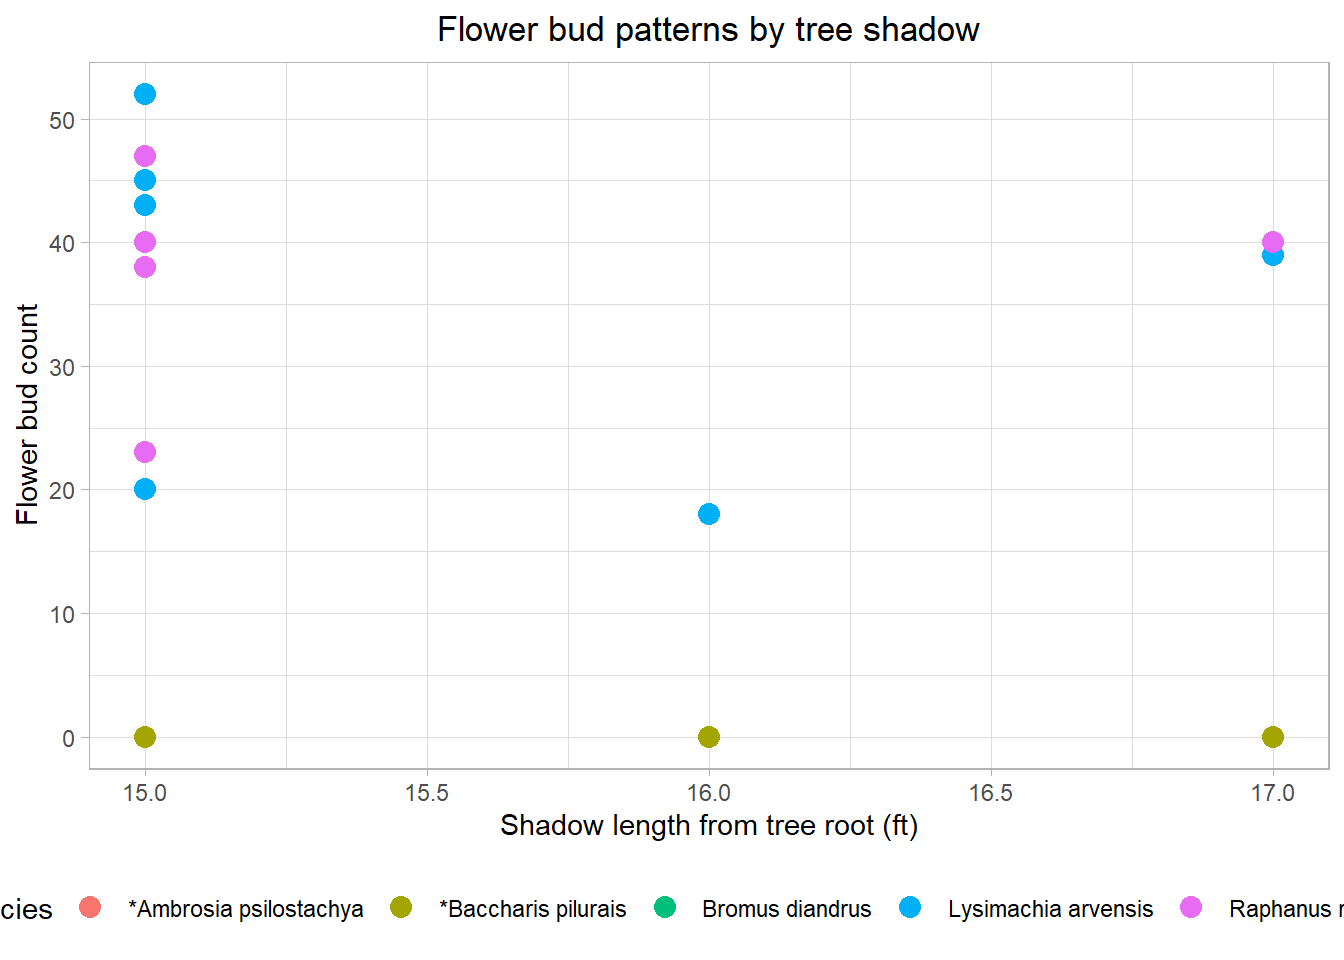
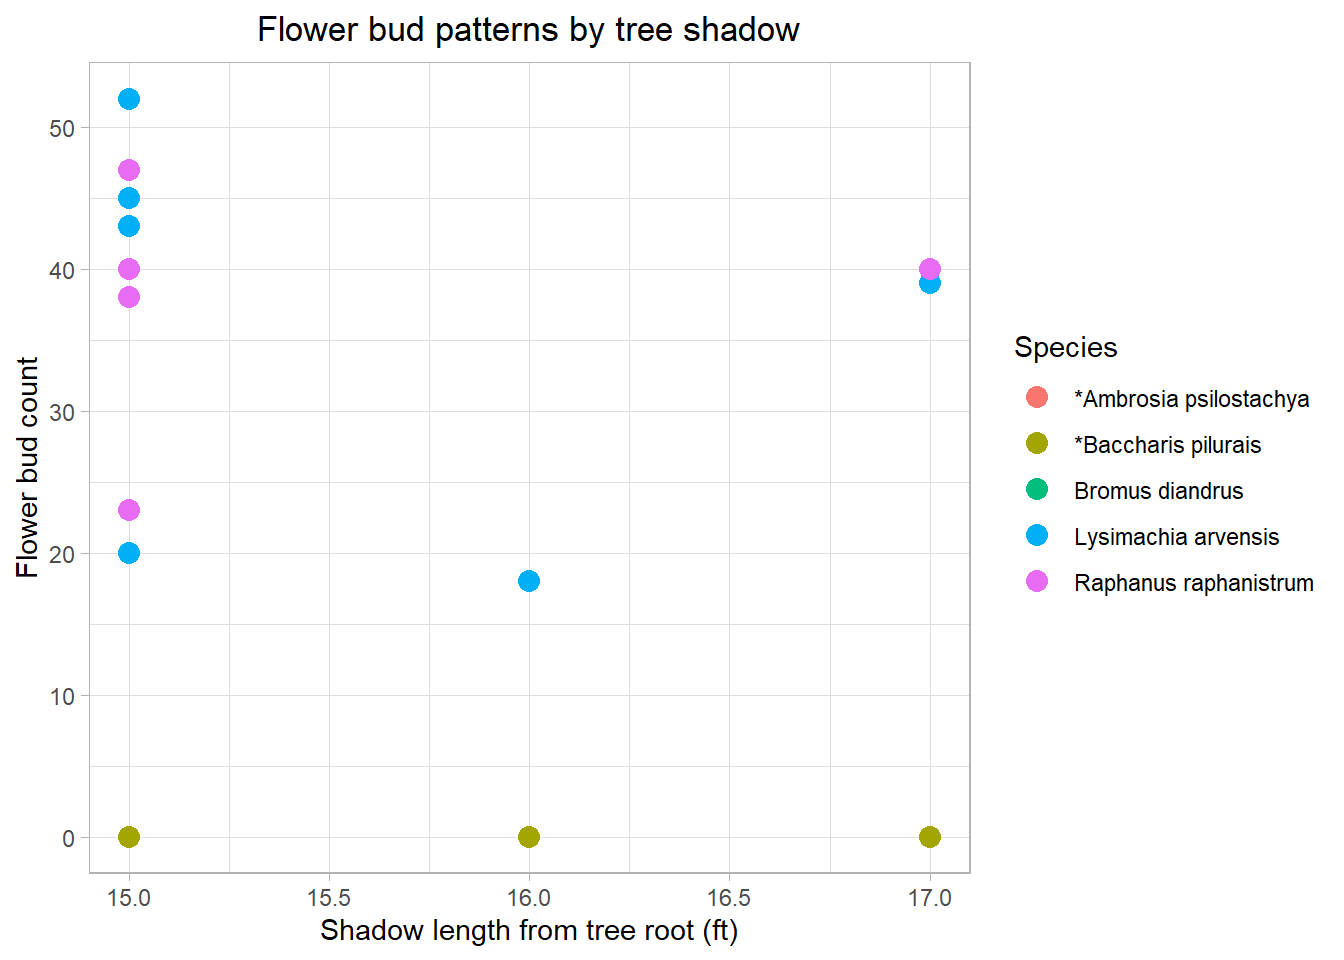
move legends to right side

diff --git a/code/Modeling.html b/code/Modeling.html
@@ -153,7 +153,7 @@ pre > code.sourceCode > span > a:first-child::before { text-decoration: underlin
 <span id="cb2-8"><a href="#cb2-8" aria-hidden="true" tabindex="-1"></a>       <span class="at">y =</span> <span class="st">"Flower bud count"</span>,</span>
 <span id="cb2-9"><a href="#cb2-9" aria-hidden="true" tabindex="-1"></a>       <span class="at">color =</span> <span class="st">"Species"</span>) <span class="sc">+</span></span>
 <span id="cb2-10"><a href="#cb2-10" aria-hidden="true" tabindex="-1"></a>  <span class="fu">theme_light</span>() <span class="sc">+</span> <span class="co"># change theme </span></span>
-<span id="cb2-11"><a href="#cb2-11" aria-hidden="true" tabindex="-1"></a>  <span class="fu">theme</span>(<span class="at">legend.position =</span> <span class="st">"bottom"</span>,</span>
+<span id="cb2-11"><a href="#cb2-11" aria-hidden="true" tabindex="-1"></a>  <span class="fu">theme</span>(<span class="at">legend.position =</span> <span class="st">"right"</span>,</span>
 <span id="cb2-12"><a href="#cb2-12" aria-hidden="true" tabindex="-1"></a>        <span class="at">plot.title =</span> <span class="fu">element_text</span>(<span class="at">hjust =</span> <span class="fl">0.5</span>))</span></code></pre></div><button title="Copy to Clipboard" class="code-copy-button"><i class="bi"></i></button></div>
 <div class="cell-output-display">
 <div>
@@ -177,7 +177,7 @@ pre > code.sourceCode > span > a:first-child::before { text-decoration: underlin
 <span id="cb3-8"><a href="#cb3-8" aria-hidden="true" tabindex="-1"></a>       <span class="at">x =</span> <span class="st">"Wind speed (mph)"</span>,</span>
 <span id="cb3-9"><a href="#cb3-9" aria-hidden="true" tabindex="-1"></a>       <span class="at">y =</span> <span class="st">"Plant height (in)"</span>,</span>
 <span id="cb3-10"><a href="#cb3-10" aria-hidden="true" tabindex="-1"></a>       <span class="at">color =</span> <span class="st">"Species"</span>) <span class="sc">+</span></span>
-<span id="cb3-11"><a href="#cb3-11" aria-hidden="true" tabindex="-1"></a>  <span class="fu">theme</span>(<span class="at">legend.position =</span> <span class="st">"bottom"</span>,</span>
+<span id="cb3-11"><a href="#cb3-11" aria-hidden="true" tabindex="-1"></a>  <span class="fu">theme</span>(<span class="at">legend.position =</span> <span class="st">"right"</span>,</span>
 <span id="cb3-12"><a href="#cb3-12" aria-hidden="true" tabindex="-1"></a>        <span class="at">plot.title =</span> <span class="fu">element_text</span>(<span class="at">hjust =</span> <span class="fl">0.5</span>))</span></code></pre></div><button title="Copy to Clipboard" class="code-copy-button"><i class="bi"></i></button></div>
 <div class="cell-output cell-output-stderr">
 <pre><code>Warning: Removed 2 rows containing missing values or values outside the scale range
@@ -205,7 +205,7 @@ pre > code.sourceCode > span > a:first-child::before { text-decoration: underlin
 <span id="cb5-8"><a href="#cb5-8" aria-hidden="true" tabindex="-1"></a>       <span class="at">x =</span> <span class="st">"Date"</span>,</span>
 <span id="cb5-9"><a href="#cb5-9" aria-hidden="true" tabindex="-1"></a>       <span class="at">y =</span> <span class="st">"Plant height (in)"</span>,</span>
 <span id="cb5-10"><a href="#cb5-10" aria-hidden="true" tabindex="-1"></a>       <span class="at">color =</span> <span class="st">"Species"</span>) <span class="sc">+</span></span>
-<span id="cb5-11"><a href="#cb5-11" aria-hidden="true" tabindex="-1"></a>  <span class="fu">theme</span>(<span class="at">legend.position =</span> <span class="st">"bottom"</span>,</span>
+<span id="cb5-11"><a href="#cb5-11" aria-hidden="true" tabindex="-1"></a>  <span class="fu">theme</span>(<span class="at">legend.position =</span> <span class="st">"right"</span>,</span>
 <span id="cb5-12"><a href="#cb5-12" aria-hidden="true" tabindex="-1"></a>        <span class="at">plot.title =</span> <span class="fu">element_text</span>(<span class="at">hjust =</span> <span class="fl">0.5</span>))</span></code></pre></div><button title="Copy to Clipboard" class="code-copy-button"><i class="bi"></i></button></div>
 <div class="cell-output cell-output-stderr">
 <pre><code>Warning: Removed 2 rows containing missing values or values outside the scale range